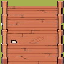
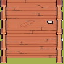
Feat(BridgeTile): Created and added BridgeTile to map

diff --git a/src/map/Map.cpp b/src/map/Map.cpp
@@ -4,6 +4,7 @@
 #include "PathTile.h"
 #include "GrassTile.h"
 #include "TowerTile.h"
+#include "BridgeTile.h"
 #include "../entities/towers/archerTower/ArcherTower.h"
 #include "../entities/towers/mageTower/MageTower.h"
 #include "../entities/towers/artilleryTower/ArtilleryTower.h"
@@ -25,6 +26,8 @@ Map::Map() : selectedTile(nullptr) {
     verticalTextures[5] = LoadAndResizeTexture("../assets/map/tiles/Vertical/V_4.png", 32, 32);
 
     middleTexture = LoadAndResizeTexture("../assets/map/tiles/Middle.png", 32, 32);
+
+    bridgeTexture = LoadAndResizeTexture("../assets/map/tiles/Bridge.png", 32, 32);
 }
 
 Map::~Map() {
@@ -101,34 +104,37 @@ void Map::LoadFromArray(const std::array<std::array<int, 31>, 19>& mapData) {
             Vector2 position = { static_cast<float>(col * 32), static_cast<float>(row * 32) };
             int tileType = mapData[row][col];
 
-            if (tileType == 0 || tileType == 2)  { // Camino
-                bool isHorizontal = true;
+            if (tileType == 3) {
+                tileRow.emplace_back(std::make_unique<BridgeTile>(position, bridgeTexture));
+            }
+                else if (tileType == 0 || tileType == 2)  { // Camino
+                    bool isHorizontal = true;
 
-                // Verifica si es parte de un camino vertical
-                if (isVerticalPath[col]) {
-                    if ((row > 0 && mapData[row - 1][col] == 0) ||
-                        (row < mapData.size() - 1 && mapData[row + 1][col] == 0)) {
-                        isHorizontal = false;
-                    }
-                }
-
-                if (isHorizontal) {
-                    if (col == 0 || mapData[row][col - 1] != 0) {
-                        horizontalIndex = 0; // Reinicia el índice horizontal
-                        inHorizontalSequence = true;
+                    // Verifica si es parte de un camino vertical
+                    if (isVerticalPath[col]) {
+                        if ((row > 0 && mapData[row - 1][col] == 0) ||
+                            (row < mapData.size() - 1 && mapData[row + 1][col] == 0)) {
+                            isHorizontal = false;
+                        }
                     }
 
-                    // Agrega un tile de camino horizontal
-                    tileRow.emplace_back(std::make_unique<PathTile>(position, horizontalTextures[horizontalIndex % 6]));
-                    horizontalIndex++;
-                } else {
-                    if (row == 0 || mapData[row - 1][col] != 0) {
-                        verticalIndices[col] = 0; // Reinicia el índice vertical
-                    }
+                    if (isHorizontal) {
+                        if (col == 0 || mapData[row][col - 1] != 0) {
+                            horizontalIndex = 0; // Reinicia el índice horizontal
+                            inHorizontalSequence = true;
+                        }
 
-                    // Agrega un tile de camino vertical
-                    tileRow.emplace_back(std::make_unique<PathTile>(position, verticalTextures[verticalIndices[col] % 6]));
-                    verticalIndices[col]++;
+                        // Agrega un tile de camino horizontal
+                        tileRow.emplace_back(std::make_unique<PathTile>(position, horizontalTextures[horizontalIndex % 6]));
+                        horizontalIndex++;
+                    } else {
+                        if (row == 0 || mapData[row - 1][col] != 0) {
+                            verticalIndices[col] = 0; // Reinicia el índice vertical
+                        }
+
+                        // Agrega un tile de camino vertical
+                        tileRow.emplace_back(std::make_unique<PathTile>(position, verticalTextures[verticalIndices[col] % 6]));
+                        verticalIndices[col]++;
                 }
             } else { // Césped
                 // Agrega un tile de césped con color OLIVE_GREEN

diff --git a/src/map/BridgeTile.cpp b/src/map/BridgeTile.cpp
@@ -1,0 +1,11 @@
+#include "BridgeTile.h"
+#include "raylib.h"
+
+BridgeTile::BridgeTile(Vector2 position, Texture2D texture)
+    : Tile(position), texture(texture) {}
+
+void BridgeTile::Draw() const {
+    if (texture.id != 0) {
+        DrawTexture(texture, position.x, position.y, WHITE);
+    }
+}

diff --git a/src/map/BridgeTile.h b/src/map/BridgeTile.h
@@ -1,0 +1,15 @@
+#ifndef BRIDGETILE_H
+#define BRIDGETILE_H
+
+#include "Tile.h"
+
+class BridgeTile : public Tile {
+private:
+    Texture2D texture;
+
+public:
+    BridgeTile(Vector2 position, Texture2D texture);
+    void Draw() const override;
+};
+
+#endif // BRIDGETILE_H

diff --git a/src/map/Map.h b/src/map/Map.h
@@ -14,6 +14,7 @@ private:
     std::array<Texture2D, 6> horizontalTextures;
     std::array<Texture2D, 6> verticalTextures;
     Texture2D middleTexture;
+    Texture2D bridgeTexture;
     GrassTile* selectedTile;
     TowerTile* selectedTower;
 
